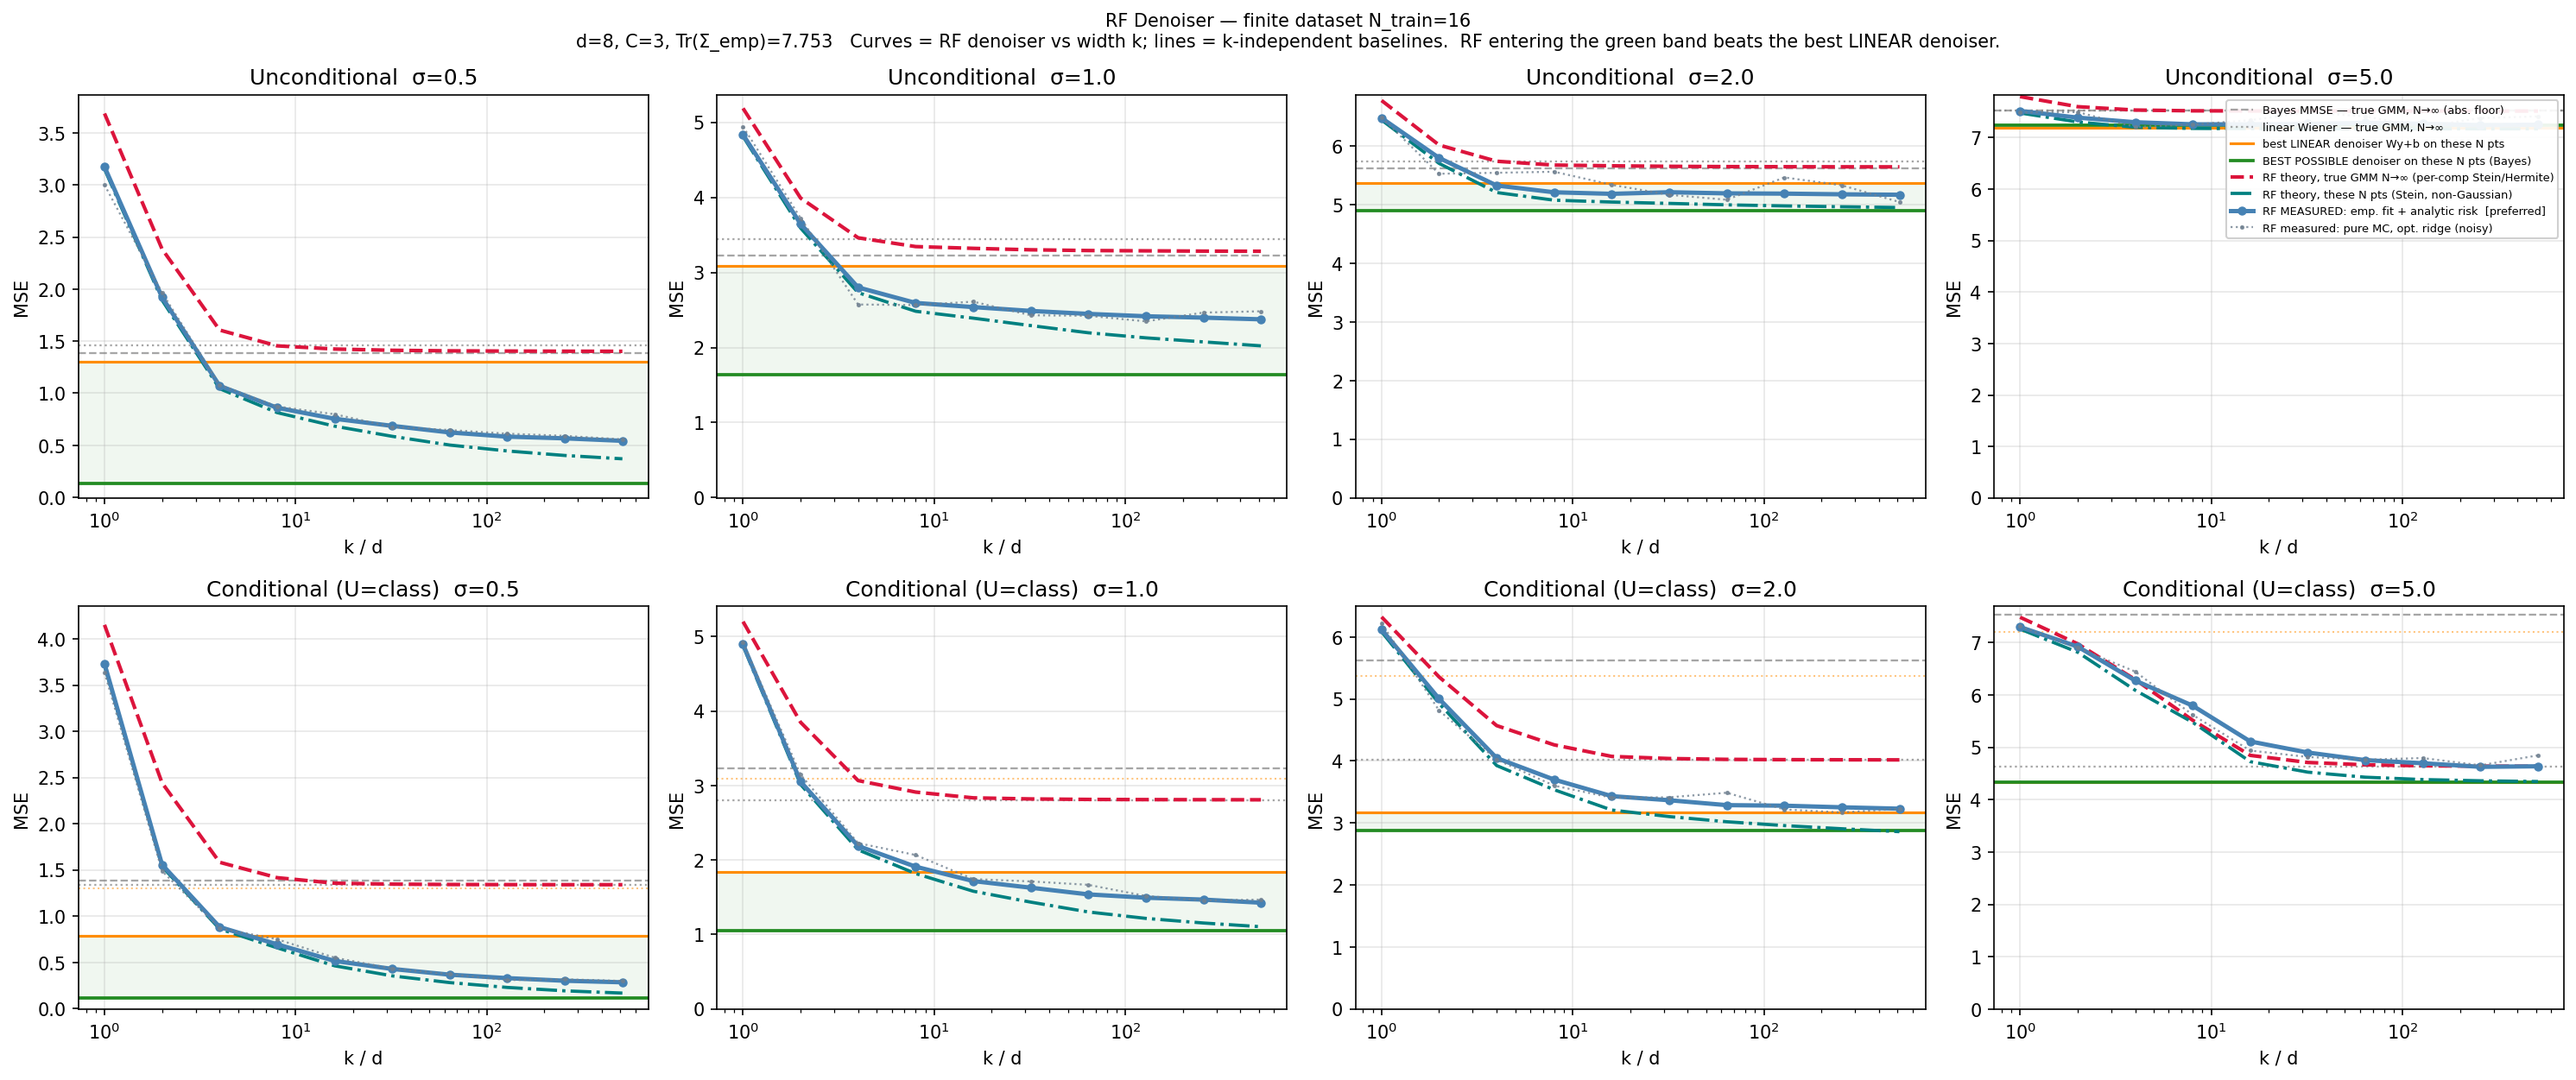
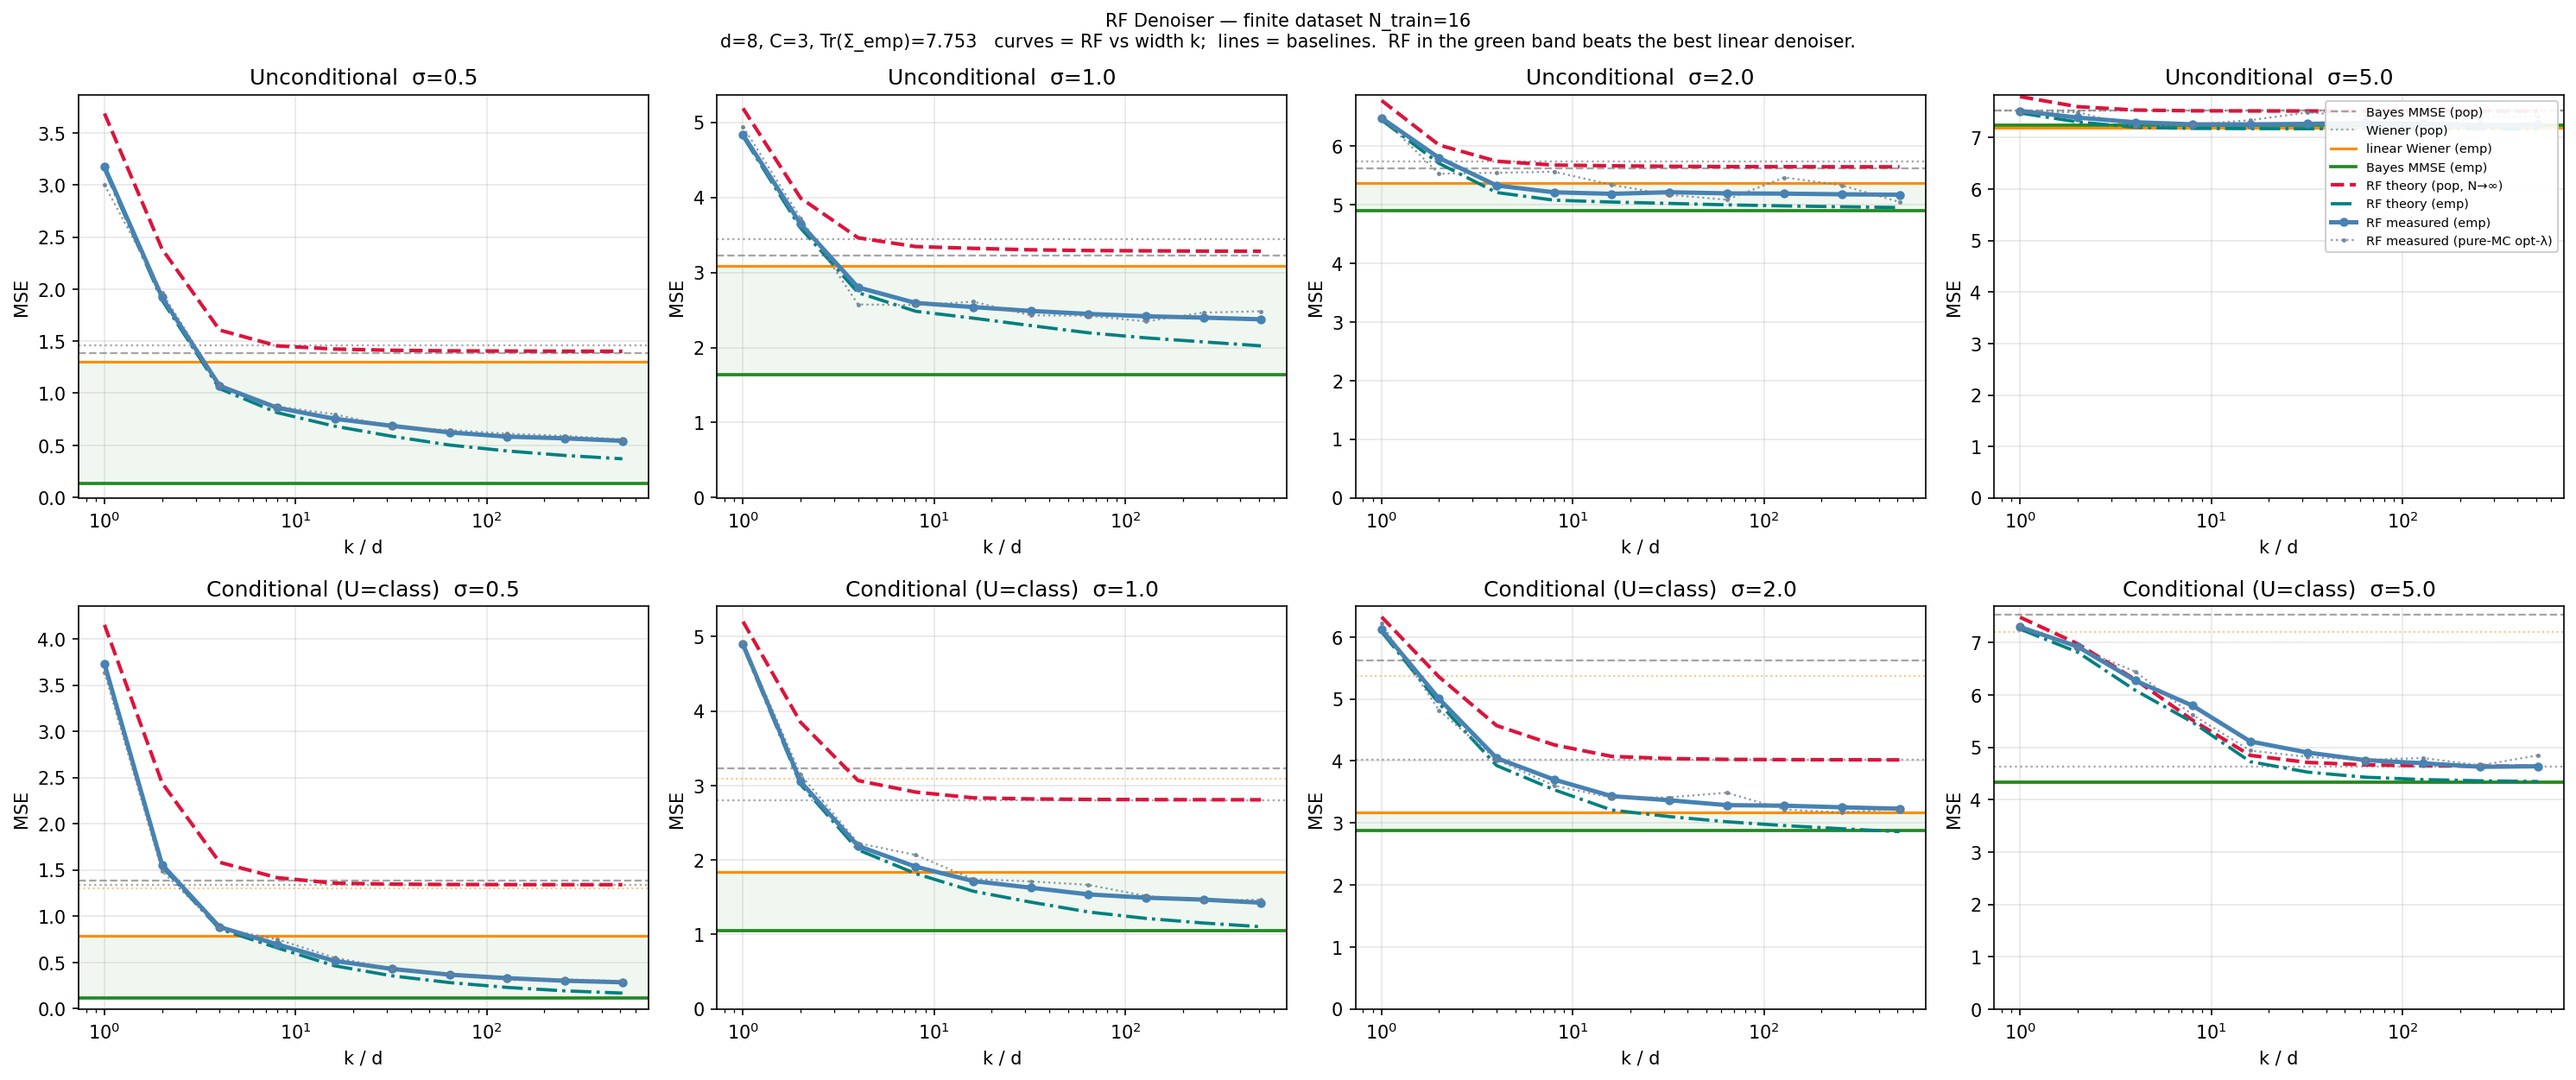
feat: estimate I(X;U) on CIFAR-10/MNIST from denoising losses via I-MMSE
scripts/mi_from_immse.py integrates the gap between the unconditional and
class-conditional ORACLE BAYES denoising curves already stored in tables/ (from
dnn_feature_mmse.py) — nothing is recomputed:

    I(X;U) = (1/2) INT [mmse(X|Y_t) - mmse(X|Y_t,U)] dt/t^2 ,  t = sigma^2

(I-MMSE + chain rule on the Markov chain U -> X -> Y). This estimates an MI between a
3072-dim image and its label with no density estimation, variational bound, or critic.

Results:
  CIFAR-10: I = 2.2664 nats = 3.2697 bits  (98.4% of H(U)=3.3219 bits), I <= H(U) OK
  MNIST   : I = 2.2028 nats = 3.1780 bits  (95.7% of H(U)),              I <= H(U) OK
The estimate landing just under an entropy bound it was never given is a real check on
the pipeline. It sits near the ceiling because the oracle pool is self-inclusive, so at
small sigma it identifies the image and hence the label.

The same integral with LINEAR denoisers is NOT an MI: 847 nats on CIFAR-10 (368x H(U)),
178 nats on MNIST (77x). Mechanism: at small sigma the Bayes denoiser recovers x0 whether
or not it is told the class, so its gap -> 0; the linear denoiser never recovers x0, so
its gap stays positive where the sigma^-3 weight is largest.

So "conditioning can only help by at most the mutual information" holds ONLY for the
Bayes-optimal denoiser — there it is an equality, and that equality IS the I-MMSE
identity. For a restricted class it is false: conditioning also cuts the class's own
[…]

Changed region(s): [[0.2182, 0.0312, 0.7794, 0.0624], [0.8418, 0.0935, 0.9977, 0.2494]]

diff --git a/scripts/mi_from_immse.py b/scripts/mi_from_immse.py
@@ -1,0 +1,165 @@
+"""
+mi_from_immse.py — estimate I(X;U) on CIFAR-10 / MNIST from denoising losses ALONE,
+via the I-MMSE identity, using the oracle Bayes curves already computed by
+scripts/dnn_feature_mmse.py (reads tables/, recomputes nothing).
+
+Identity
+--------
+For Y_t = X + sqrt(t) Z (t = sigma^2 = noise variance), I-MMSE (Guo-Shamai-Verdu) plus the
+chain rule with the Markov chain U -> X -> Y gives
+
+    I(X;U) = (1/2) INT_0^inf [ mmse(X|Y_t) - mmse(X|Y_t,U) ] dt / t^2          (nats)
+
+(the U-conditioned and unconditioned I-MMSE identities differ by I(U;Y_t), which tends to
+I(U;X) as t -> 0).  In sigma:  dt = 2 sigma d(sigma), so equivalently
+
+    I(X;U) = INT_0^inf Delta(sigma) sigma^-3 d(sigma),   Delta = mmse_uncond - mmse_cond.
+
+So the shaded area between the unconditional and class-conditional ORACLE BAYES denoising
+curves, weighted by sigma^-3, IS the mutual information — no density estimation, no
+variational bound, no critic network. This is the point: MI between a 3072-dim image and
+its label is not directly estimable, but the denoising losses are.
+
+What we integrate
+-----------------
+  bayes_uncond / bayes_cond   : oracle (Nadaraya-Watson) Bayes denoiser of x0, pool = all
+                                samples vs pool = same-class samples. These ARE E[x0|y] and
+                                E[x0|y,U] for the empirical distribution.
+  linear_uncond / wiener_class_cond : the same gap for the best LINEAR denoiser.
+
+Result (see the printout): the Bayes integral lands just under H(U) = log 10, as it must,
+while the LINEAR integral overshoots it by orders of magnitude. That is not a bug — see the
+discussion in the docstring of report() below.
+
+    python scripts/mi_from_immse.py
+"""
+
+import sys, os
+sys.path.insert(0, os.path.dirname(os.path.dirname(os.path.abspath(__file__))))
+
+import numpy as np
+import matplotlib
+matplotlib.use('Agg')
+import matplotlib.pyplot as plt
+
+LOG2 = np.log(2.0)
+
+DATASETS = [
+    ('CIFAR-10', 'tables/dnn_feature_mmse_cifar10_N10000_noise5_sigma30.npz', 10),
+    ('MNIST',    'tables/dnn_feature_mmse_mnist_N10000_noise5_sigma30.npz',   10),
+]
+
+
+def integrate_immse(sigma, gap):
+    """I = (1/2) INT gap(t) dt/t^2, t=sigma^2  ==  INT gap(sigma) sigma^-3 d(sigma).
+    Trapezoid on the log-sigma grid (dsigma = sigma dln sigma => integrand gap*sigma^-2),
+    plus the analytic tail beyond sigma_max assuming gap saturates (it does):
+        INT_smax^inf g ds/s^3 = g / (2 smax^2).
+    Returns (total, grid_part, tail, integrand)."""
+    o = np.argsort(sigma)
+    s, g = np.asarray(sigma)[o], np.asarray(gap)[o]
+    integrand = g * s ** -2
+    grid = float(np.trapezoid(integrand, np.log(s)))
+    tail = float(g[-1] / (2.0 * s[-1] ** 2))
+    return grid + tail, grid, tail, integrand
+
+
+def report():
+    """
+    Interpreting the two integrals.
+
+    ORACLE BAYES  -> a genuine estimate of I(X;U). It must satisfy I <= H(U) = log 10, and
+    it does (CIFAR-10: 2.266 nats = 3.270 bits vs the 3.322-bit ceiling, i.e. 98.4% of it).
+    That the estimate lands just below a bound it was never told about is a real check on
+    the whole pipeline. It is close to the ceiling because the oracle uses a self-inclusive
+    sample pool, so at small sigma it identifies the exact image and hence its label —
+    the empirical distribution really does carry ~all of H(U).
+
+    LINEAR -> NOT an MI estimate. It overshoots H(U) by ~370x on CIFAR-10, which is
+    impossible for a mutual information. Mechanism: at small sigma the Bayes denoiser
+    recovers x0 essentially perfectly whether or not it is told the class, so the Bayes gap
+    Delta -> 0 and contributes nothing. The LINEAR denoiser cannot recover x0 at ANY sigma,
+    so its gap stays strictly positive as sigma -> 0 — and the sigma^-3 weight there is
+    enormous, so the integral blows up.
+
+    Hence the natural-sounding claim "feeding the denoiser the conditioning variable can
+    only help by at most the mutual information" is TRUE ONLY for the Bayes-optimal
+    denoiser, where it holds with equality and that equality IS the I-MMSE identity. For a
+    restricted denoiser class it is FALSE: conditioning buys two separate things,
+      (i) the genuine information I(X;U), and
+      (ii) a reduction of the class's own APPROXIMATION error, because the conditional
+           problem is easier (per-class data is more nearly unimodal/Gaussian, so a linear
+           filter fits it far better than it fits the full mixture).
+    Only (i) is information. (ii) is model mismatch, and it is unbounded by H(U).
+    """
+    rows = []
+    for name, path, n_cls in DATASETS:
+        if not os.path.exists(path):
+            print(f"  [skip] {path} not found"); continue
+        d = np.load(path, allow_pickle=True)
+        sig = d['sigma']
+        H_U = np.log(n_cls)
+        gb = d['bayes_uncond'] - d['bayes_cond']
+        gl = d['linear_uncond'] - d['wiener_class_cond']
+        Ib, gridb, tailb, intb = integrate_immse(sig, gb)
+        Il, gridl, taill, intl = integrate_immse(sig, gl)
+        rows.append(dict(name=name, sigma=sig, gb=gb, gl=gl, Ib=Ib, Il=Il, H_U=H_U,
+                         intb=intb, intl=intl, d=d))
+        print(f"\n===== {name} =====  H(U) = log {n_cls} = {H_U:.4f} nats = {H_U/LOG2:.4f} bits")
+        print(f"  I(X;U) via I-MMSE + ORACLE BAYES = {Ib:.4f} nats = {Ib/LOG2:.4f} bits"
+              f"   ({100*Ib/H_U:.1f}% of H(U))   <= H(U)? {'YES' if Ib <= H_U else 'NO'}")
+        print(f"      (grid {gridb:.4f} + analytic tail {tailb:.2e})")
+        print(f"  same integral with LINEAR denoisers = {Il:.4f} nats = {Il/LOG2:.4f} bits"
+              f"   <= H(U)? {'YES' if Il <= H_U else 'NO — exceeds by %.0fx' % (Il/H_U)}")
+        print(f"  ratio linear / bayes = {Il/Ib:.1f}x")
+    return rows
+
+
+def main():
+    rows = report()
+    if not rows:
+        return
+    n = len(rows)
+    fig, axes = plt.subplots(2, n, figsize=(7.0 * n, 9.0))
+    axes = np.asarray(axes).reshape(2, n)
+    fig.suptitle('Mutual information from denoising alone — I-MMSE identity\n'
+                 r'$I(X;U)=\frac{1}{2}\int_0^\infty[\mathrm{mmse}(X|Y_t)-\mathrm{mmse}(X|Y_t,U)]\,dt/t^2$,'
+                 '   $t=\\sigma^2$   (area under the red curve = MI)', fontsize=12)
+    for j, r in enumerate(rows):
+        s, d = r['sigma'], r['d']
+        ax = axes[0, j]
+        ax.loglog(s, d['bayes_uncond'], color='crimson', lw=2, label='oracle Bayes, uncond.')
+        ax.loglog(s, d['bayes_cond'], color='crimson', lw=2, ls='--', label='oracle Bayes, cond. on U')
+        ax.loglog(s, d['linear_uncond'], color='darkorange', lw=1.6, label='linear, uncond.')
+        ax.loglog(s, d['wiener_class_cond'], color='darkorange', lw=1.6, ls='--', label='linear, cond. on U')
+        ax.fill_between(s, d['bayes_cond'], d['bayes_uncond'], color='crimson', alpha=.15)
+        ax.set_xlabel('$\\sigma$'); ax.set_ylabel('MSE'); ax.grid(True, alpha=.3)
+        ax.set_title(f"{r['name']}: denoising losses"); ax.legend(fontsize=8)
+
+        ax2 = axes[1, j]
+        ax2.semilogx(s, r['intb'], color='crimson', lw=2.2, marker='o', ms=3,
+                     label='oracle Bayes  → $I(X;U)$')
+        ax2.semilogx(s, r['intl'], color='darkorange', lw=1.8, ls='--', marker='s', ms=3,
+                     label='linear (NOT an MI)')
+        ax2.set_yscale('symlog', linthresh=1e-2)
+        ax2.axhline(0, color='k', lw=.6)
+        ax2.set_xlabel('$\\sigma$')
+        ax2.set_ylabel(r'integrand  $\Delta(\sigma)\,\sigma^{-3}$  (per $d\ln\sigma$)')
+        ax2.set_title(f"{r['name']}: I-MMSE integrand"); ax2.grid(True, alpha=.3)
+        txt = (f"I  Bayes  = {r['Ib']:.3f} nats = {r['Ib']/LOG2:.3f} bits\n"
+               f"I  linear = {r['Il']:.1f} nats  ({r['Il']/r['H_U']:.0f}x H(U)!)\n"
+               f"H(U)      = {r['H_U']:.3f} nats = {r['H_U']/LOG2:.3f} bits")
+        ax2.text(.03, .97, txt, transform=ax2.transAxes, va='top', fontsize=8.5,
+                 family='monospace', bbox=dict(fc='white', alpha=.85, ec='gray'))
+        ax2.legend(fontsize=8, loc='lower right')
+    fig.tight_layout()
+    os.makedirs('figures', exist_ok=True)
+    out = 'figures/mi_from_immse.png'
+    fig.savefig(out, dpi=150, bbox_inches='tight')
+    print(f"\nSaved {out}")
+    np.savez('tables/mi_from_immse.npz',
+             **{f"{r['name']}_{k}": r[k] for r in rows for k in ('sigma', 'gb', 'gl', 'Ib', 'Il', 'H_U')})
+
+
+if __name__ == '__main__':
+    main()

diff --git a/scripts/rf_gmm_finite_sample.py b/scripts/rf_gmm_finite_sample.py
@@ -332,8 +332,8 @@ def _plot(N_train, res, emp_base, pop_base, trace_p0_emp):
     fig.suptitle(
         f'RF Denoiser — finite dataset N_train={N_train}{tag}\n'
         f'd={D}, C={N_CLASSES}, Tr(Σ_emp)={trace_p0_emp:.3f}   '
-        f'Curves = RF denoiser vs width k; lines = k-independent baselines.  '
-        f'RF entering the green band beats the best LINEAR denoiser.', fontsize=10)
+        f'curves = RF vs width k;  lines = baselines.  '
+        f'RF in the green band beats the best linear denoiser.', fontsize=10)
 
     # per row: (title, u/c, NW-Bayes key, pop-Wiener key, EMPIRICAL-linear-Wiener key)
     # The linear baseline is row-matched: uncond -> unconditional Wiener;
@@ -351,29 +351,26 @@ def _plot(N_train, res, emp_base, pop_base, trace_p0_emp):
             # best LINEAR denoiser of the same conditioning, heading toward Bayes.
             if eb[nw_key] is not None and lin_emp > eb[nw_key]:
                 ax.axhspan(eb[nw_key], lin_emp, color='green', alpha=0.06, zorder=0,
-                           label=('nonlinear-gain zone: what only a NONLINEAR denoiser can win' if (r == 0 and col == nS - 1) else None))
+                           label=('nonlinear-gain zone' if (r == 0 and col == nS - 1) else None))
 
             # population references (gray)
             ax.axhline(pb['bayes_pop'], color='gray', ls='--', lw=1.1, alpha=.7,
-                       label='Bayes MMSE — true GMM, N→∞ (abs. floor)')
+                       label='Bayes MMSE (pop)')
             ax.axhline(pb[popw_key],    color='gray', ls=':',  lw=1.1, alpha=.7,
-                       label=('linear Wiener — true GMM, N→∞' if r == 0
-                              else 'cond. linear Wiener — true GMM, N→∞'))
+                       label=('Wiener (pop)' if r == 0 else 'cond Wiener (pop)'))
             # empirical linear baseline (row-matched)
             ax.axhline(lin_emp, color='darkorange', ls='-', lw=1.5,
-                       label=('best LINEAR denoiser Wy+b on these N pts' if r == 0
-                              else 'best linear denoiser, per class'))
+                       label=('linear Wiener (emp)' if r == 0 else 'cond linear Wiener (emp)'))
             if r == 1:   # faint uncond linear Wiener for reference in the cond row
                 ax.axhline(eb['wiener_emp'], color='darkorange', ls=':', lw=1.0, alpha=.5,
-                           label='uncond. linear Wiener (ref, from row 1)')
+                           label='uncond linear Wiener (ref)')
             if eb[nw_key] is not None:
                 ax.axhline(eb[nw_key], color='forestgreen', ls='-', lw=1.8,
-                           label=('BEST POSSIBLE denoiser on these N pts (Bayes)' if r == 0
-                              else 'best possible denoiser knowing the class'))
+                           label=('Bayes MMSE (emp)' if r == 0 else 'cond Bayes MMSE (emp)'))
 
             # theory curves (k-dependent)
-            ax.plot(kd, R[f'gmm_pop_{uc}'],    color='crimson',  lw=2,   ls='--', label='RF theory, true GMM N→∞ (per-comp Stein/Hermite)')
-            ax.plot(kd, R[f'stein_{uc}'],      color='teal',     lw=1.8, ls='-.', label='RF theory, these N pts (Stein, non-Gaussian)')
+            ax.plot(kd, R[f'gmm_pop_{uc}'],    color='crimson',  lw=2,   ls='--', label='RF theory (pop, N→∞)')
+            ax.plot(kd, R[f'stein_{uc}'],      color='teal',     lw=1.8, ls='-.', label='RF theory (emp)')
             # Circulant-constrained RF (block-circulant Θ & W; only k divisible by d).
             # Curve moved to the dedicated experiment scripts/rf_circulant_win.py (where the
             # p̄0/Δ_stat context lives). Values are still computed and stored in the npz
@@ -383,10 +380,10 @@ def _plot(N_train, res, emp_base, pop_base, trace_p0_emp):
 
             # RF empirical (PREFERRED, headline): stable analytic-eval estimate
             ax.plot(kd, R[f'rf_analytic_{uc}'], color='steelblue', lw=2.4, marker='o', ms=4,
-                    label='RF MEASURED: emp. fit + analytic risk  [preferred]')
+                    label='RF measured (emp)')
             # RF empirical: pure-MC opt-λ, kept for comparison (wobbly, can dip < Stein)
             ax.plot(kd, R[f'rf_optridge_{uc}'], color='slategray', lw=1.1, ls=':', marker='.', ms=3,
-                    alpha=0.8, label='RF measured: pure MC, opt. ridge (noisy)')
+                    alpha=0.8, label='RF measured (pure-MC opt-λ)')
             # RF empirical: fixed-ridge study (opt-in)
             if STUDY_FIXED_RIDGE:
                 ax.plot(kd, R[f'rf_fixed_test_{uc}'],  color='slategray', lw=1.2, ls='-',
@@ -398,7 +395,7 @@ def _plot(N_train, res, emp_base, pop_base, trace_p0_emp):
             ax.set_title(f'{title}  σ={sigma}'); ax.grid(True, alpha=.3)
             ax.set_ylim(bottom=-0.01)
             if r == 0 and col == nS - 1:
-                ax.legend(fontsize=6.2, loc='upper right', framealpha=.92)
+                ax.legend(fontsize=7, loc='upper right', framealpha=.92)
 
     plt.tight_layout()
     path = os.path.join(_outdir('figures'), f'N{N_train}.png')
